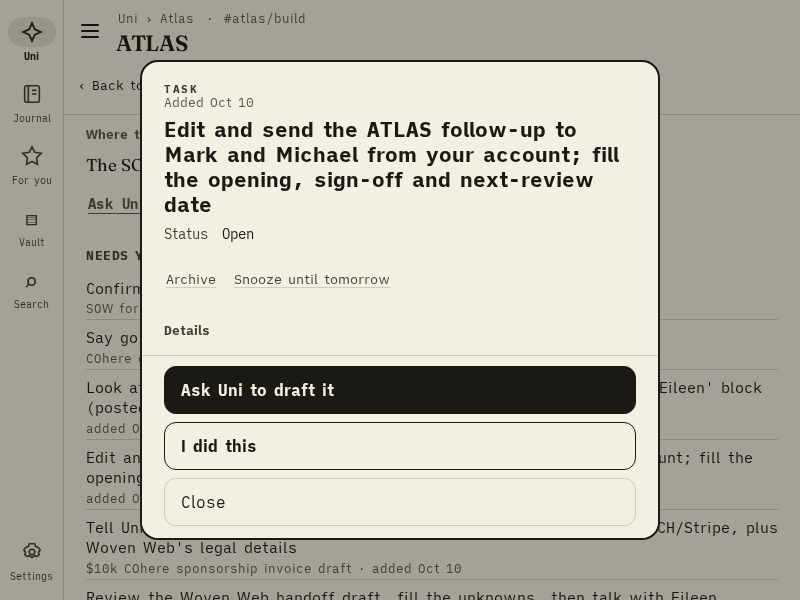
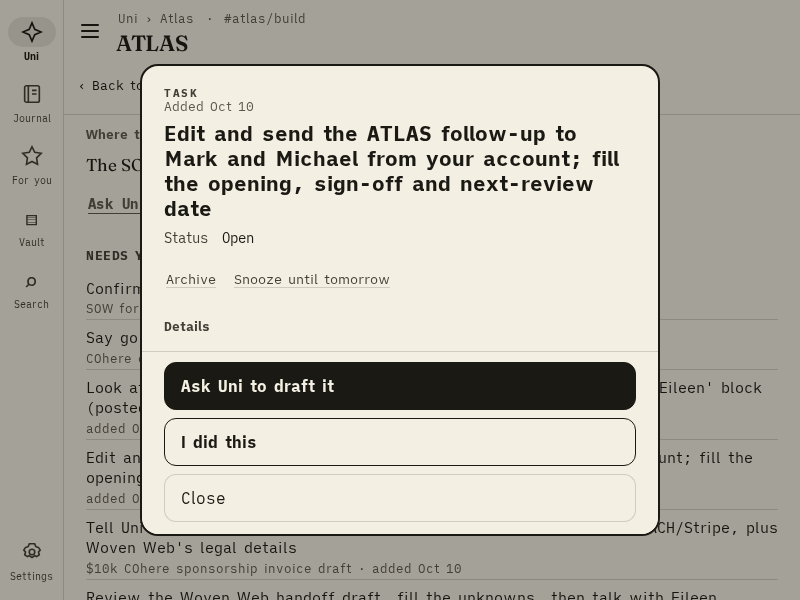
WIP r24: stopped at uni-1 cutover fence (Companion/spec in progress, untested)

Changed region(s): [[0.1562, 0.54, 0.8438, 0.9], [0.1562, 0.09, 0.8438, 0.36], [0.1875, 0.36, 0.3125, 0.42]]

diff --git a/scripts/browser/simple.spec.ts b/scripts/browser/simple.spec.ts
@@ -3739,6 +3739,7 @@ test.describe('r23', () => {
     // Techne's chat has messages up to Oct 9; this request was asked on Oct 6
     await page.evaluate(() => (window as any).__arrive('ch-techne', 'Uni', 'The placeholder deploy is ready whenever you are.', 3600));
     await add(page, { id: 'go', title: 'T-303 Placeholder deploy', node: 'Areas/Techne', meta: { next: 'Say go on the placeholder deploy', asked: '2026-10-06T18:00:00.000Z' } });
+    await add(page, { id: 'go3', title: 'T-309 Placeholder budget', node: 'Areas/Techne', meta: { next: 'Say go on the quarterly budget', asked: '2026-10-06T18:00:00.000Z' } });
     await add(page, { id: 'go2', title: 'T-304 Placeholder fresh deploy', node: 'Areas/Techne', meta: { next: 'Say go on the fresh placeholder deploy', asked: new Date(Date.now() + 5000).toISOString() } });
     await refresh(page, '2026-10-14T09:00:00.000Z');
     await openRoom(page, 'Techne');
@@ -3758,9 +3759,32 @@ test.describe('r23', () => {
     await expect(page.locator('.sr-chat')).toBeVisible();
     await expect(page.locator('.sr-chat textarea, .sr-chat [contenteditable]').first()).toHaveText('');
     await openWork(page);
+    // r24: the room's newer chat is about other things: no cue, and "Say it" stays the primary
+    await rowOf(page, 'Say go on the quarterly budget').locator('.cp-need').click();
+    await expect(sheetOf(page).locator('.task-asked')).toBeVisible();
+    await expect(sheetOf(page).locator('.task-movedon')).toHaveCount(0);
+    await expect(sheetOf(page).locator('.task-do.primary')).toHaveText(/^Say it in #/);
+    await sheetOf(page).getByRole('button', { name: 'Close' }).click();
     await rowOf(page, 'Say go on the fresh placeholder deploy').locator('.cp-need').click();
     await expect(sheetOf(page).locator('.task-movedon')).toHaveCount(0);
     await expect(sheetOf(page).locator('.task-do.primary')).toHaveText(/^Say it in #/);
+  });
+
+  test('a step that names a block shows inline text only when it came from that block: otherwise "Open #room to find the \'For Eileen\' block"', async ({ page }) => {
+    await boot(page);
+    await add(page, { id: 'b1', title: 'T-310 Placeholder block', node: 'Areas/Techne', meta: { next: "Forward #techne's 'For Eileen' block (posted 10-13)", detail: 'Something else entirely: the Spanish copy list.', room: 'techne' } });
+    await add(page, { id: 'b2', title: 'T-311 Placeholder block two', node: 'Areas/Techne', meta: { next: "Forward #techne's 'For Kevin' block (posted 10-13)", detail: "## For Kevin\nHi Kevin, the placeholder text.", room: 'techne' } });
+    await refresh(page, '2026-10-14T09:00:00.000Z');
+    await openRoom(page, 'Techne');
+    await openWork(page);
+    await rowOf(page, "'For Eileen' block").locator('.cp-need').click();
+    await expect(sheetOf(page).locator('.task-detail')).toHaveCount(0);
+    await expect(sheetOf(page).locator('.task-block-gap')).toContainText("Open #techne to find the 'For Eileen' block");
+    await expect(sheetOf(page).getByText('Spanish copy list')).toHaveCount(0);
+    await sheetOf(page).getByRole('button', { name: 'Close' }).click();
+    await rowOf(page, "'For Kevin' block").locator('.cp-need').click();
+    await expect(sheetOf(page).locator('.task-detail')).toContainText('Hi Kevin, the placeholder text.');
+    await expect(sheetOf(page).locator('.task-block-gap')).toHaveCount(0);
   });
 
   test('no ellipsis: a step stored cut short is shown as stored, with "(the note ends here · open the note)"; a preview question has none', async ({ page }) => {
@@ -3787,6 +3811,7 @@ test.describe('r23', () => {
     await refresh(page, '2026-10-14T09:00:00.000Z');
     await openRoom(page, 'Techne');
     await openWork(page);
+    await expect(rowOf(page, 'Send Ryan the deploy-access message').locator('.cp-lead')).toHaveText('Send Ryan the deploy-access message (in the card)');
     await rowOf(page, 'Send Ryan the deploy-access message').locator('.cp-need').click();
     const sheet = sheetOf(page);
     await expect(sheet.locator('.task-detail')).toContainText('Hey Ryan, this is the placeholder message');

diff --git a/src/areas/Companion.tsx b/src/areas/Companion.tsx
@@ -604,11 +604,28 @@ export function NeedsList({ needs: owed, pending = [], fit, onTask, onDecide, on
 
 function Body({ stands, ready, note, load, feed, rest = 0, moreTitle = null, onPrivate, runs, nodeName, onTask, onDecide, onEverything, onNote, placeOf, fit, hideHealth = false, onMore, keepOne = false }: CompanionProps & { fit: boolean; hideHealth?: boolean; onMore?: () => void; keepOne?: boolean }) {
   const active = runs.filter(isActiveRun);
-  const hiddenRuns = Math.max(0, active.length - RUNS_SHOWN);
+  /** r24 (Sonnet): in the side panel a Running row is whole above the footer or it waits behind "+N more running": one fewer until the last fits */
+  const [runCap, setRunCap] = useState(RUNS_SHOWN);
+  const bodyRef = useRef<HTMLDivElement | null>(null);
+  useLayoutEffect(() => { setRunCap(RUNS_SHOWN); }, [active.length, fit]);
+  useLayoutEffect(() => {
+    const b = bodyRef.current; const sc = b?.closest(".cp-fit") as HTMLElement | null;
+    if (!fit || !b || !sc || typeof ResizeObserver === "undefined") return;
+    const check = () => {
+      const runs = b.querySelectorAll<HTMLElement>(".cp-run"); const foot = b.querySelector<HTMLElement>(".cp-foot");
+      const last = runs[runs.length - 1]; if (!last || !foot || sc.scrollTop > 0) return;
+      const over = sc.scrollHeight > sc.clientHeight + 1 && last.getBoundingClientRect().bottom > foot.getBoundingClientRect().top + 0.5;
+      if (over) setRunCap((c) => Math.max(0, Math.min(c, runs.length) - 1));
+    };
+    const ro = new ResizeObserver(check); ro.observe(b); ro.observe(sc); check();
+    return () => ro.disconnect();
+  }, [fit, runCap, active.length, feed.rows.length]);
+  const runsShown = fit ? Math.min(RUNS_SHOWN, runCap) : RUNS_SHOWN;
+  const hiddenRuns = Math.max(0, active.length - runsShown);
   if (note) return <div className="cp-body"><p className="cp-lede cp-note">{note}</p></div>;
   // below 900px the room shows the list's health itself, outside the strip (r14)
   const health = !hideHealth && <LoadHealth load={load} ready={ready} count={feed.total} />;
-  return <div className="cp-body">
+  return <div className="cp-body" ref={bodyRef}>
     {!ready ? (load?.error || load?.slow ? <LoadHealth load={load} ready={false} /> : <p className="cp-lede">Loading…</p>) : stands && <><Stands text={stands.text} />{stands.calm && <p className="cp-calm">{stands.calm}</p>}</>}
     {ready && <section aria-label="Needs you" className="cp-sec" aria-busy={load?.refreshing || undefined}>
       <h3 className="cp-h">Needs you</h3>
@@ -619,9 +636,9 @@ function Body({ stands, ready, note, load, feed, rest = 0, moreTitle = null, onP
       {feed.total === 0 && !feed.pending?.length && <p className="cp-none">Nothing needs you here.</p>}
       {health}
     </section>}
-    {active.length > 0 && <section aria-label="Running" className="cp-sec">
+    {active.length > 0 && runsShown > 0 && <section aria-label="Running" className="cp-sec">
       <h3 className="cp-h">Running</h3>
-      <ul className="cp-list">{active.slice(0, RUNS_SHOWN).map((r) => <li key={r.id} className="cp-run" data-state={r.state}><i aria-hidden="true" /><span>{cleanText(r.what)}</span><small>{r.state}</small></li>)}</ul>
+      <ul className="cp-list">{active.slice(0, runsShown).map((r) => <li key={r.id} className="cp-run" data-state={r.state}><i aria-hidden="true" /><span>{cleanText(r.what)}</span><small>{r.state}</small></li>)}</ul>
     </section>}
     {onEverything && <div className="cp-foot"><button type="button" className="cp-all" onClick={onEverything}><span className="cp-all-t">{`All of ${nodeName}'s work`}</span>{hiddenRuns > 0 && <span className="cp-all-more">+{hiddenRuns} more running</span>}<span className="cp-all-arrow" aria-hidden="true">→</span></button></div>}
   </div>;
